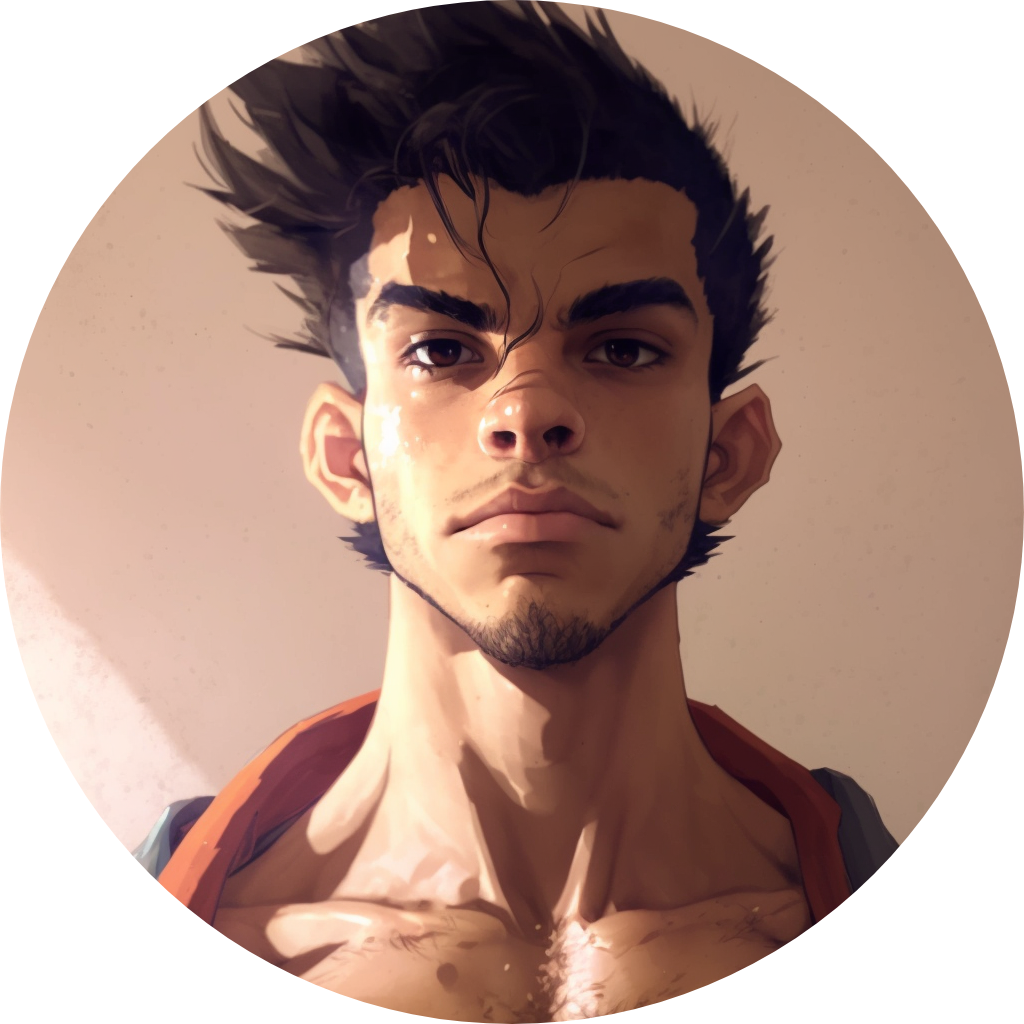
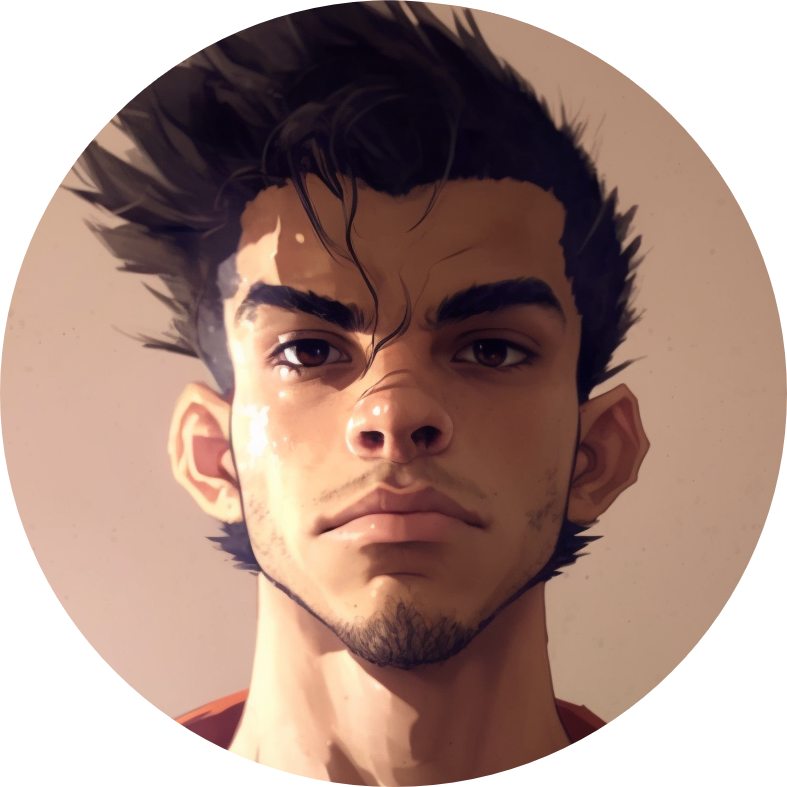
readme atualizado - Imagem no final estava errada - Link para o MIT License estava errado - README versao em ingles foi atualizada

diff --git a/src/main/resources/static/readme_en_us.md b/src/main/resources/static/readme_en_us.md
@@ -1,14 +1,13 @@
 <!-- title -->
 <h1 align="center">
     <span>Todo List API</span>
-    <img src="../static/img/readme/todo_list_h1_image.svg" alt="todo list image icon" width="400px" align="center">
 </h1>
 
 <!-- badges -->
 <div align="left">
     <img src="https://img.shields.io/badge/license-MIT-yellow" alt="badge icon"></img>
     <img src="https://img.shields.io/badge/version-1.0-green" alt="badge icon"></img>
-    <img src="https://img.shields.io/badge/repo size-5.15 MB-orange" alt="badge icon"></img>
+    <img src="https://img.shields.io/badge/repo size-118 MB-orange" alt="badge icon"></img>
 </div>
 
 <!-- languages -->
@@ -28,7 +27,7 @@
 ## <img src="https://cdn2.iconfinder.com/data/icons/flat-pack-1/64/Computer-512.png" alt="todo list image icon" width="40px" align="center"> About the project
 This is a TodoList API designed for managing your daily tasks. The objetive here is practice the CRUD operations, using as background a todolist.
 
-### How the API works
+### How the API works?
 1. User will create an account (authentication).
 2. User will create a category.
 3. After those 2 steps, the user can start to create their own tasks and manage them.
@@ -38,15 +37,16 @@ This is a TodoList API designed for managing your daily tasks. The objetive here
 
 <!-- Technologies -->
 ## <img src="https://cdn4.iconfinder.com/data/icons/general-office/91/General_Office_48-256.png" alt="todo list image icon" width="40px" align="center"> Technologies
-- Java
-- Maven
-- Spring Boot
-- Spring Web
+
+- Java 17
+- Spring Boot 3.3.4
 - Spring Data JPA
-- PostgreSQL Driver
+- Spring Web
 - OpenAPI (Swagger)
+- PostgreSQL
+- Junit, Mockito and AssertJ
+- Docker 27.0.3
 - Spring Security
-- Mockito and AssertJ
 
 <hr>
 <br>
@@ -275,9 +275,8 @@ For each operation, we show all the possible responses
 ## <img src="https://cdn3.iconfinder.com/data/icons/start-up-4/44/rocket-256.png" alt="todo list image icon" width="40px" align="center"> Build and run
 
 ### Requirements
-- [Java 17](https://www.oracle.com/java/technologies/javase/jdk17-archive-downloads.html)
-- [PostgreSQL 16](https://www.postgresql.org/download/)
-- [git 2.34.1](https://git-scm.com/download)
+- [git](https://git-scm.com/downloads)
+- [Docker](https://docs.docker.com/desktop/wsl/)
 
 <br>
 
@@ -285,42 +284,42 @@ For each operation, we show all the possible responses
 
 1. Clone this repository
     ```bash
-    git clone https://github.com/lGabrielDev/API_todoList.git;
+    git clone https://github.com/lGabrielDev/API_todoList.git
     ```
 <br>
 
-2. Setup the application.properties:
+2. Go to
 
-    ```properties
-    # Database path
-    spring.datasource.url=jdbc:postgresql://localhost:5432/your_database
-
-    # postgres username
-    spring.datasource.username=yourPostgresUsername
-
-    # postgres password
-    spring.datasource.password=yourPostgresPassword
-
-    # Every time we update a entity, the reference table will update as well
-    spring.jpa.hibernate.ddl-auto=update
-
-    # Show the SQL commands
-    spring.jpa.show-sql=true
-
-    # Swagger sorted operations
-    springdoc.swagger-ui.operationsSorter=method
+    ```bash
+    cd API_todoList
     ```
-<br>
-
-3. Run the application and access the endpoint: `http://localhost:8080/swagger-ui/index.html`
 
 <br>
 
-4. Create a user
+3. Assign the values in the environment variables
 
-5. Create a category
+    <img alt="environment variables image example" src="./img/readme/preencher_envs.png" width="350px">
 
-6. Create your taks and have fun! 😎
+<br>
+
+4.  Run the containers
+
+    ```bash
+    docker compose up -d;
+    ```
+
+<br>
+
+5. Swagger doc: `http://localhost:8080/swagger.html`
+
+<br>
+
+6. Create a user
+
+7. Create a category
+
+8. Create a task
+
 
 <!-- <div>
     <span>For more detailed informations, watch the tutorial video here</span>
@@ -353,7 +352,7 @@ For each operation, we show all the possible responses
     <img src="https://cdn4.iconfinder.com/data/icons/jetflat-2-multimedia-vol-3/60/0042_049_license_agreement_file_document_paper_page_sheet-512.png" alt="todo list image icon" width="40px" align="center">
     <span>License</span>
 </h2>
-<p>This project is under the <a href="./LICENSE.txt"> MIT </a> license.</p>
+<p>This project is under the <a href="./../../../../LICENSE.txt"> MIT </a> license.</p>
 
 <hr>
 <br>
@@ -368,6 +367,6 @@ For each operation, we show all the possible responses
 <br>
 
 <div align="center">
-    <img src="../static/img/readme/profile_padrao_circular.png" alt="profile avatar" width="80px">
+    <img src="../static/img/readme/profile_circular.png" alt="profile avatar" width="80px">
     <p> <a href="https://github.com/lGabrielDev">Gabriel Freitas</a> 😎</p>
 </div>

diff --git a/README.md b/README.md
@@ -364,7 +364,7 @@ Para cada operação é mostrado todas as respostas possíveis
 <!-- License -->
 ## <img src="https://cdn4.iconfinder.com/data/icons/jetflat-2-multimedia-vol-3/60/0042_049_license_agreement_file_document_paper_page_sheet-512.png" alt="todo list image icon" width="40px" align="center"> Licença --> MIT
 
-O projeto está sob a licença do [MIT](../../../../LICENSE.txt).
+O projeto está sob a licença do [MIT](LICENSE.txt).
 
 <hr>
 <br>
